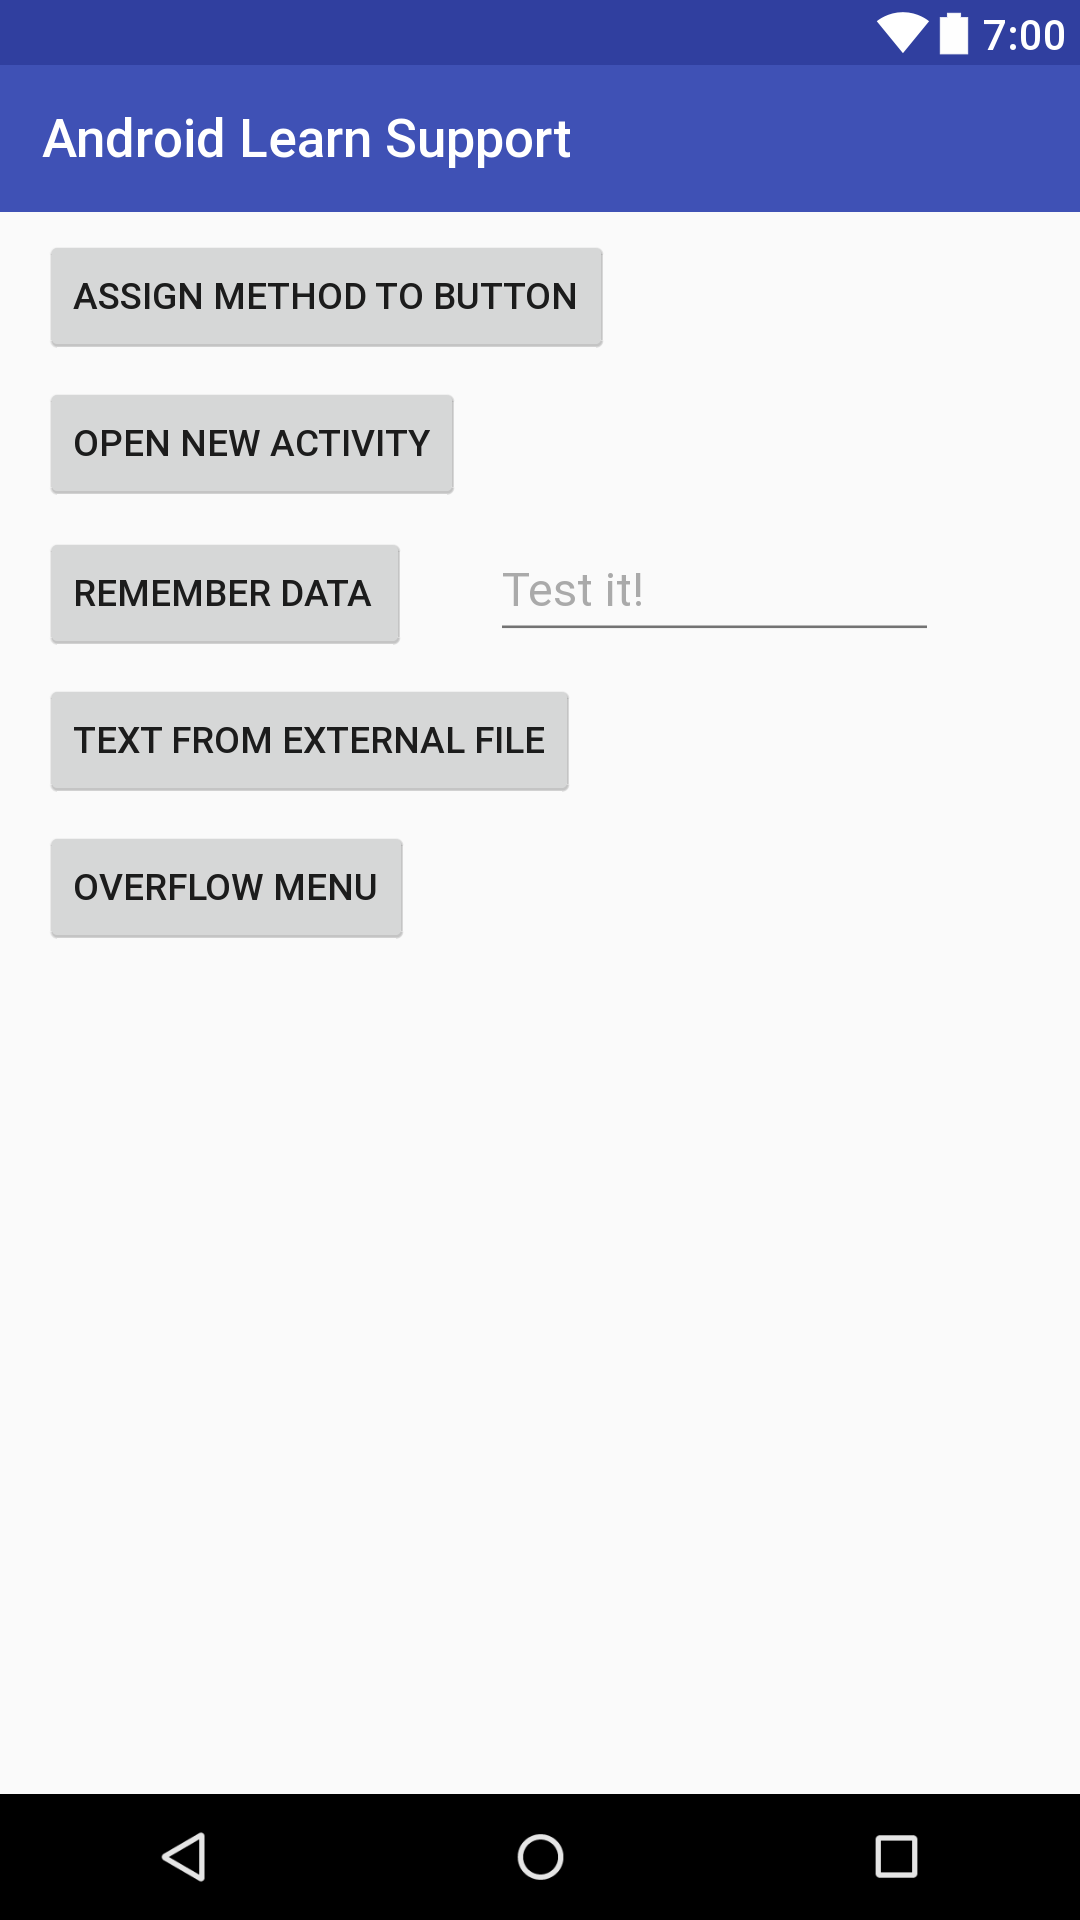
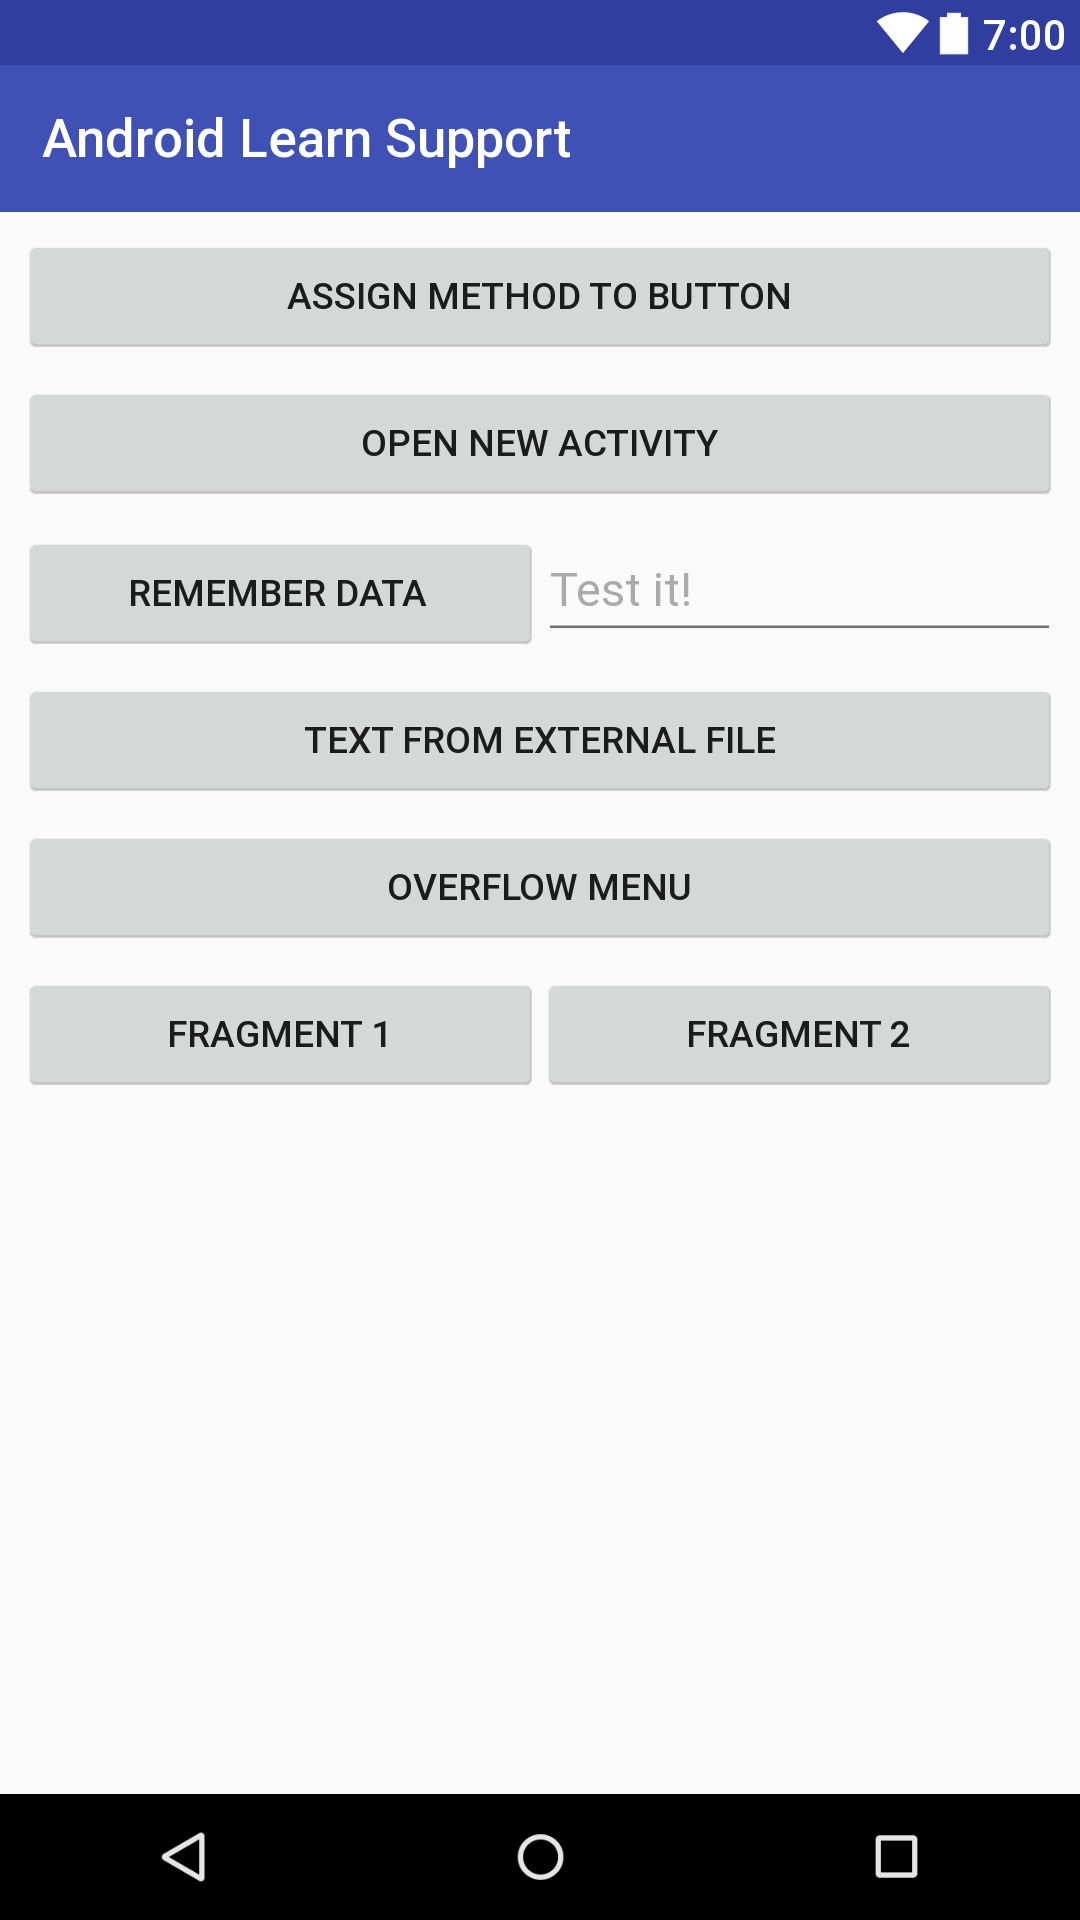
Add working fragments

Changed region(s): [[0.0306, 0.125, 0.9778, 0.5625]]

diff --git a/app/src/main/java/com/example/androidlearnsupport/MainMenu.java b/app/src/main/java/com/example/androidlearnsupport/MainMenu.java
@@ -1,8 +1,11 @@
 package com.example.androidlearnsupport;
 
+import android.app.Activity;
 import android.app.FragmentManager;
 import android.app.FragmentTransaction;
+import android.content.Context;
 import android.content.Intent;
+import android.content.SharedPreferences;
 import android.support.v7.app.ActionBar;
 import android.support.v7.app.AppCompatActivity;
 import android.os.Bundle;
@@ -12,6 +15,8 @@ import android.view.View;
 import android.widget.Button;
 import android.widget.EditText;
 import android.widget.TextView;
+
+import java.io.File;
 
 public class MainMenu extends AppCompatActivity {
 
@@ -34,12 +39,13 @@ public class MainMenu extends AppCompatActivity {
                 FragmentManager FM = getFragmentManager();
                 FragmentTransaction FT = FM.beginTransaction();
                 FragmentOne F1 = new FragmentOne();
-                FragmentTwo F2 = new FragmentTwo();
 
-                FT.remove(F2);
                 FT.add(R.id.fr1_id, F1);
-                FT.addToBackStack("f1");
                 FT.commit();
+                View hideView = findViewById(R.id.fr2_id);
+                hideView.setVisibility(View.INVISIBLE);
+                View showView = findViewById(R.id.fr1_id);
+                showView.setVisibility(View.VISIBLE);
             }
         });
 
@@ -48,15 +54,17 @@ public class MainMenu extends AppCompatActivity {
             public void onClick(View v) {
                 FragmentManager FM = getFragmentManager();
                 FragmentTransaction FT = FM.beginTransaction();
-                FragmentOne F1 = new FragmentOne();
                 FragmentTwo F2 = new FragmentTwo();
 
-                FT.remove(F1);
                 FT.add(R.id.fr2_id, F2);
-                FT.addToBackStack("f2");
                 FT.commit();
+                View hideView = findViewById(R.id.fr1_id);
+                hideView.setVisibility(View.INVISIBLE);
+                View showView = findViewById(R.id.fr2_id);
+                showView.setVisibility(View.VISIBLE);
             }
         });
+
     }
     public boolean onCreateOptionsMenu(Menu menu) {
         MenuInflater inflater = getMenuInflater();
@@ -90,5 +98,28 @@ public class MainMenu extends AppCompatActivity {
     public void overflowMenuShow (View view){
         Intent intent = new Intent(this, Activity_5.class);
         startActivity(intent);
+    }
+    public void saveSharedPreferences (View view){
+        EditText editText = (EditText) findViewById(R.id.editText8);
+        String message = editText.getText().toString();
+
+        SharedPreferences sharedPref = this.getPreferences(Context.MODE_PRIVATE);
+        SharedPreferences.Editor editor = sharedPref.edit();
+        editor.putString("haslo", message);
+        editor.apply();
+    }
+    public void readSharedPreferences (View view){
+        TextView textView7 = (TextView) findViewById(R.id.textView7);
+
+        SharedPreferences sharedPref = this.getPreferences(Context.MODE_PRIVATE);
+        String defaultValue = sharedPref.getString("haslo", "");
+
+        textView7.setText(defaultValue);
+    }
+    //public void saveANewFile (View view){
+        //String filename = "myfile";
+
+
+        //File file = new File(context.getFilesDir(), filename);
     }
 }

diff --git a/app/src/main/java/com/example/androidlearnsupport/FragmentOne.java b/app/src/main/java/com/example/androidlearnsupport/FragmentOne.java
@@ -1,6 +1,8 @@
 package com.example.androidlearnsupport;
 
 import android.app.Fragment;
+import android.content.Context;
+import android.content.SharedPreferences;
 import android.os.Bundle;
 import android.support.annotation.Nullable;
 import android.view.LayoutInflater;
@@ -12,7 +14,7 @@ public class FragmentOne extends Fragment {
     @Nullable
     @Override
     public View onCreateView(LayoutInflater inflater, @Nullable ViewGroup container, Bundle savedInstanceState) {
-        View v = inflater.inflate(R.layout.fragment_one_layout, container, false);
-        return v;
+        return inflater.inflate(R.layout.fragment_one_layout, container, false);
     }
+
 }

diff --git a/app/src/main/java/com/example/androidlearnsupport/FragmentTwo.java b/app/src/main/java/com/example/androidlearnsupport/FragmentTwo.java
@@ -7,12 +7,14 @@ import android.view.LayoutInflater;
 import android.view.View;
 import android.view.ViewGroup;
 
+
+
 public class FragmentTwo extends Fragment {
 
     @Nullable
     @Override
     public View onCreateView(LayoutInflater inflater, @Nullable ViewGroup container, Bundle savedInstanceState) {
-        View v = inflater.inflate(R.layout.fragment_two_layout, container, false);
-        return v;
+        return inflater.inflate(R.layout.fragment_two_layout, container, false);
     }
+
 }
